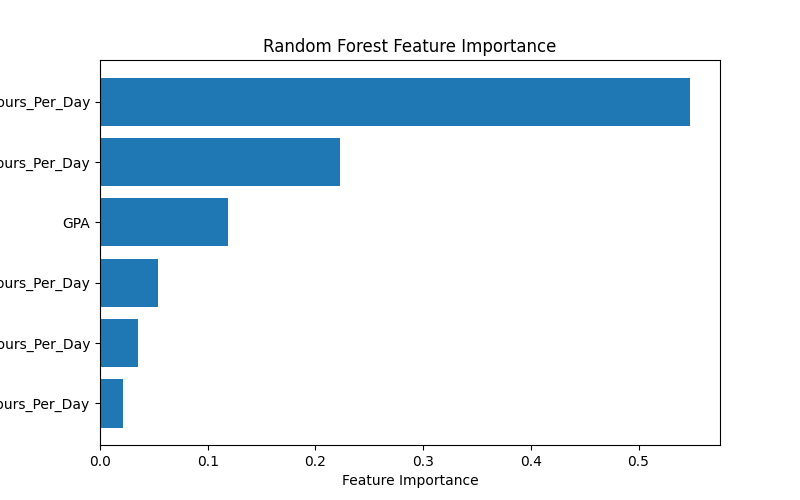
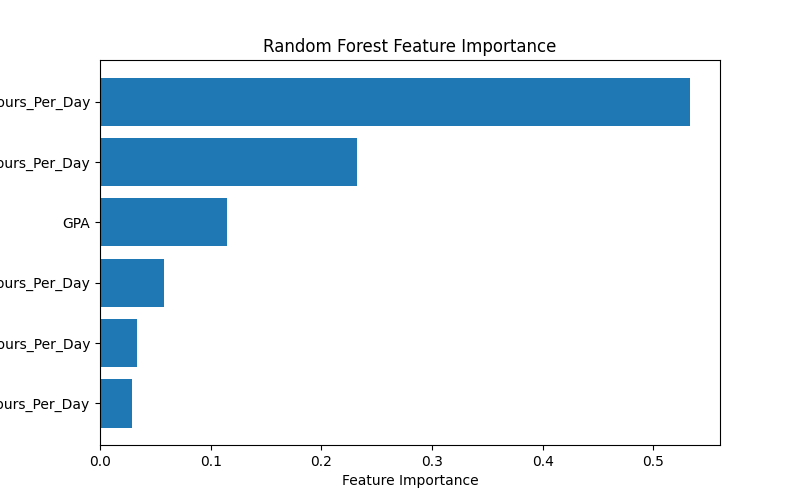
nu færdig maybe idk help

diff --git a/knn.py b/knn.py
@@ -6,7 +6,7 @@ from sklearn.pipeline import Pipeline
 
 # --- Data Preparation ---
 def DataPrep():
-    data = pd.read_csv('student_lifestyle_dataset_modificeret.csv')
+    data = pd.read_csv('student_lifestyle_dataset_modifceret.csv')
     data.dropna(inplace=True)
     ordenc = OrdinalEncoder(categories=[['Low', 'Moderate', 'High']])
     data['Stress_Level'] = (ordenc.fit_transform(data[['Stress_Level']]) + 1).astype(int)

diff --git a/randomforestbest.py b/randomforestbest.py
@@ -13,7 +13,7 @@ from sklearn.model_selection import GridSearchCV
 
 # Read data
 def DataPrep():
-    data = pd.read_csv('student_lifestyle_dataset_modificeret.csv')
+    data = pd.read_csv('student_lifestyle_dataset_modifceret.csv')
     data.dropna(inplace=True) 
     ordenc = OrdinalEncoder(categories=[['Low', 'Moderate', 'High']])
     data['Stress_Level'] = (ordenc.fit_transform(data[['Stress_Level']]) + 1).astype(int)
